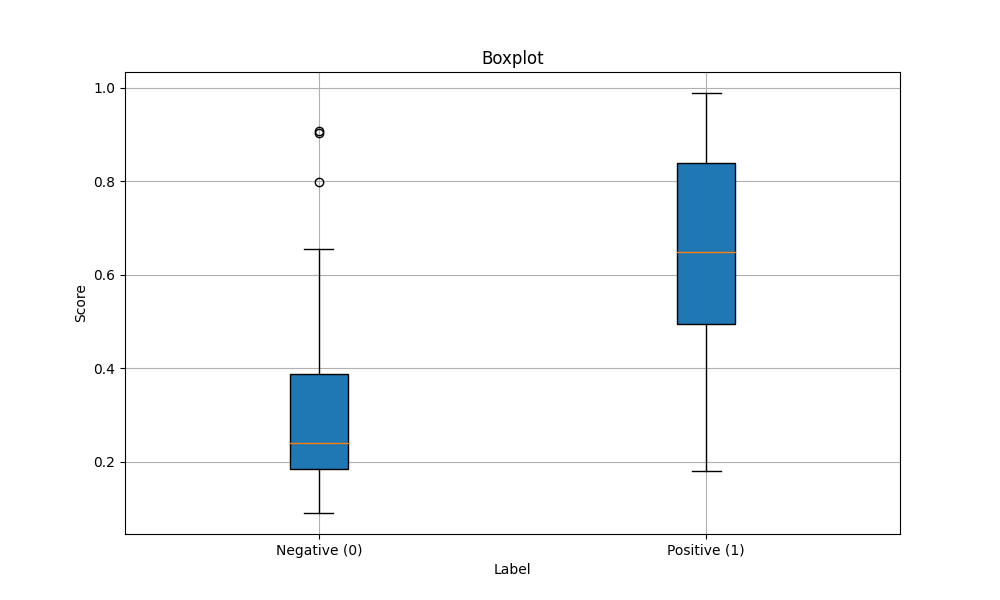
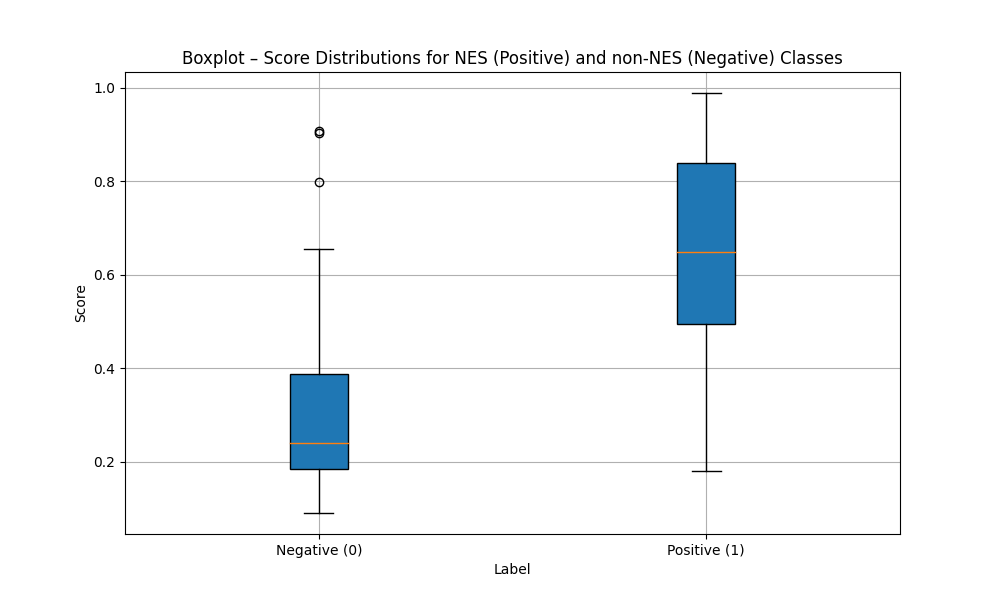
edited the graphs

Changed region(s): [[0.186, 0.09, 0.837, 0.12]]

diff --git a/Hackaton/run.py b/Hackaton/run.py
@@ -196,7 +196,7 @@ def plot_roc_curve(y_test, y_scores, out_file_path="roc_curve.png"):
     plt.ylim([0.0, 1.05])
     plt.xlabel('False Positive Rate')
     plt.ylabel('True Positive Rate')
-    plt.title('Receiver Operating Characteristic (ROC) Curve')
+    plt.title('ROC Curve – Evaluating Binary Classification of NES vs. non-NES Proteins')
     plt.legend(loc="lower right")
     plt.grid(True)
     plt.savefig(out_file_path)
@@ -220,7 +220,7 @@ def plot_boxplot(data_dict, out_file_path="boxplot.png"):
     # Adding labels and title
     plt.xlabel('Label')
     plt.ylabel('Score')
-    plt.title('Boxplot')
+    plt.title('Boxplot – Score Distributions for NES (Positive) and non-NES (Negative) Classes')
 
     # Display plot
     plt.grid(True)